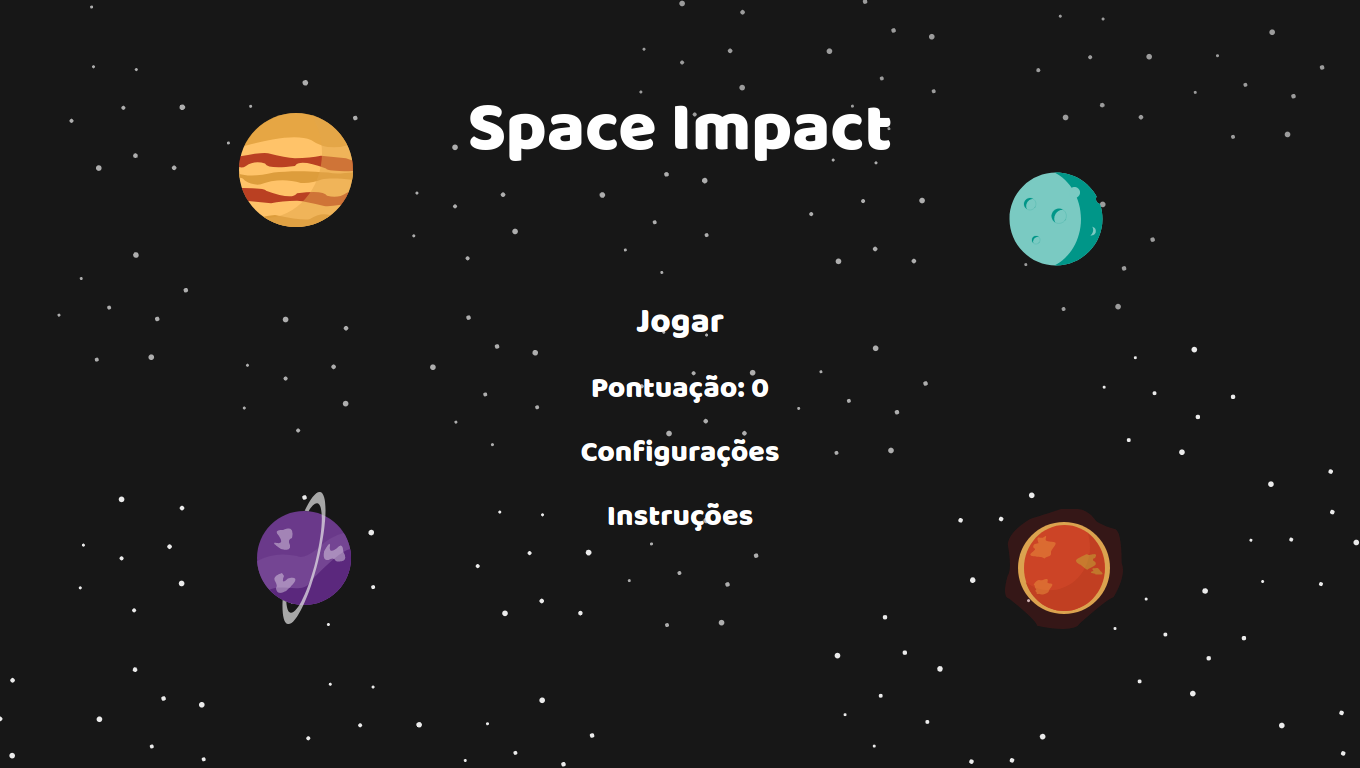
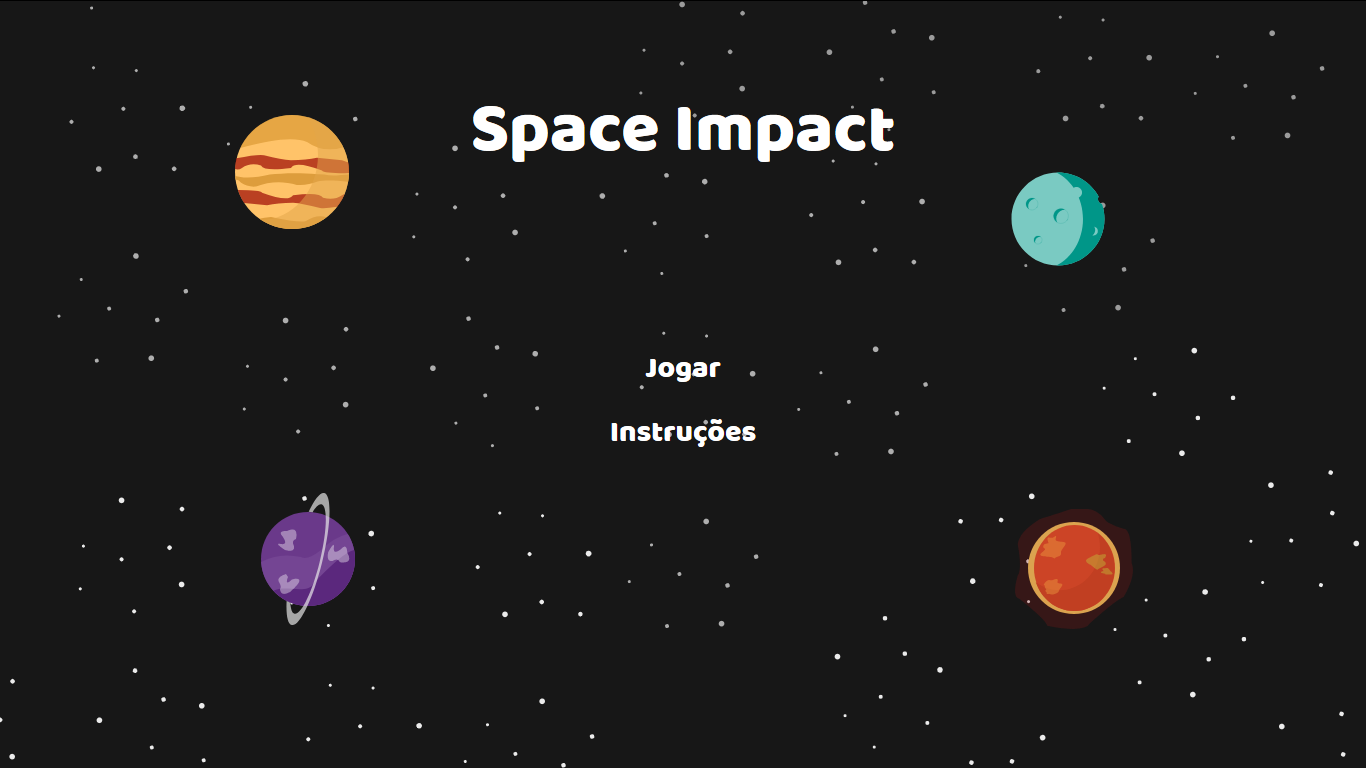
Alterações para deixar mais topperson

diff --git a/site/galeria.html b/site/galeria.html
@@ -31,7 +31,7 @@
                     <a class="nav-link" href="index.html">Inicio <span class="sr-only">(current)</span></a>
                 </li>
                 <li class="nav-item">
-                    <a class="nav-link" href="#">Jogar</a>
+                    <a class="nav-link" href="../menu/index.html">Jogar</a>
                 </li>
                 <li class="nav-item">
                     <a class="nav-link" href="galeria.html">Galeria</a>
@@ -52,9 +52,9 @@
                 <div class="carousel-item active">
                     <img class="d-block w-100" src="img/1.png" alt="Tela menu inicial">
                 </div>
-                <div class="carousel-item">
+<!--                 <div class="carousel-item">
                     <img class="d-block w-100" src="img/2.png" alt="Tela menu de configurações">
-                </div>
+                </div> -->
                 <div class="carousel-item">
                     <img class="d-block w-100" src="img/3.png" alt="Tela menu de instruções">
                 </div>
@@ -74,7 +74,7 @@
     <footer class="page-footer font-small blue">
 
         <!-- Copyright -->
-        <div class="footer-copyright text-center py-3"> 2019 :
+        <div class="footer-copyright text-center py-3 footer"> 2019 |
         <a target="_blank" href="http://201.55.32.21:8001/"> Fatec Taquaritinga </a>
         </div>
     <!-- Copyright -->

diff --git a/site/sobre.html b/site/sobre.html
@@ -31,7 +31,7 @@
                     <a class="nav-link" href="index.html">Inicio <span class="sr-only">(current)</span></a>
                 </li>
                 <li class="nav-item">
-                    <a class="nav-link" href="#">Jogar</a>
+                    <a class="nav-link" href="../menu/index.html">Jogar</a>
                 </li>
                 <li class="nav-item">
                     <a class="nav-link" href="galeria.html">Galeria</a>
@@ -60,13 +60,14 @@
                 publishing software like Aldus PageMaker including versions of Lorem Ipsum.</p>
         </div>
     </div>
-        <!-- Footer -->
+    <!-- Footer -->
     <footer class="page-footer font-small blue">
 
         <!-- Copyright -->
-        <div class="footer-copyright text-center py-3"> 2019 :
+        <div class="footer-copyright text-center py-3 footer"> 2019 |
         <a target="_blank" href="http://201.55.32.21:8001/"> Fatec Taquaritinga </a>
         </div>
+        
     <!-- Copyright -->
 
     </footer>

diff --git a/menu/index.html b/menu/index.html
@@ -18,22 +18,24 @@
         <div class="title center">
             <h1>Space Impact</h1>
         </div>
+        <br>
+        <br>
         <div class="options center">
             <h2 onmouseover="sound_opt()">
                 <a id="link_jogar" href="../jogo/spaceimpact.html">
                     Jogar
                 </a>
             </h2>
-            <h2 onmouseover="sound_opt()">
+<!--             <h2 onmouseover="sound_opt()">
                 <a href="#iniciar" class="postarPontuacao">
                     Pontuação:
                 </a>
-            </h2>
-            <h2 onmouseover="sound_opt()">
+            </h2> -->
+<!--             <h2 onmouseover="sound_opt()">
                 <a href="config.html">
                     Configurações
                 </a>
-            </h2>
+            </h2> -->
             <h2 onmouseover="sound_opt()">
                 <a href="instruction.html">
                     Instruções

diff --git a/site/css/estilo.css b/site/css/estilo.css
@@ -7,7 +7,10 @@ h1{
 }
 .footer{
     text-align: center;
-    color: rgb(150, 150, 153);
+    color: white;
+}
+.footer a:active, a:hover, a:link, a:visited{
+    color: white;
 }
 .fundinho{
     background-color: #E9ECEF;
@@ -25,6 +28,10 @@ h1{
     height: 150px;
 }
 .btnColor{
-    background-color: #7ACAC2;
+    background-color: rgb(31, 109, 101);
     color: white;  
+}
+
+.btnColor a:link, a:hover, a:visited, a:active{
+    color: white;
 }

diff --git a/site/index.html b/site/index.html
@@ -60,7 +60,7 @@
     <footer class="page-footer font-small blue">
 
         <!-- Copyright -->
-        <div class="footer-copyright text-center py-3"> 2019 :
+        <div class="footer-copyright text-center py-3 footer"> 2019 |
         <a target="_blank" href="http://201.55.32.21:8001/"> Fatec Taquaritinga </a>
         </div>
     <!-- Copyright -->
